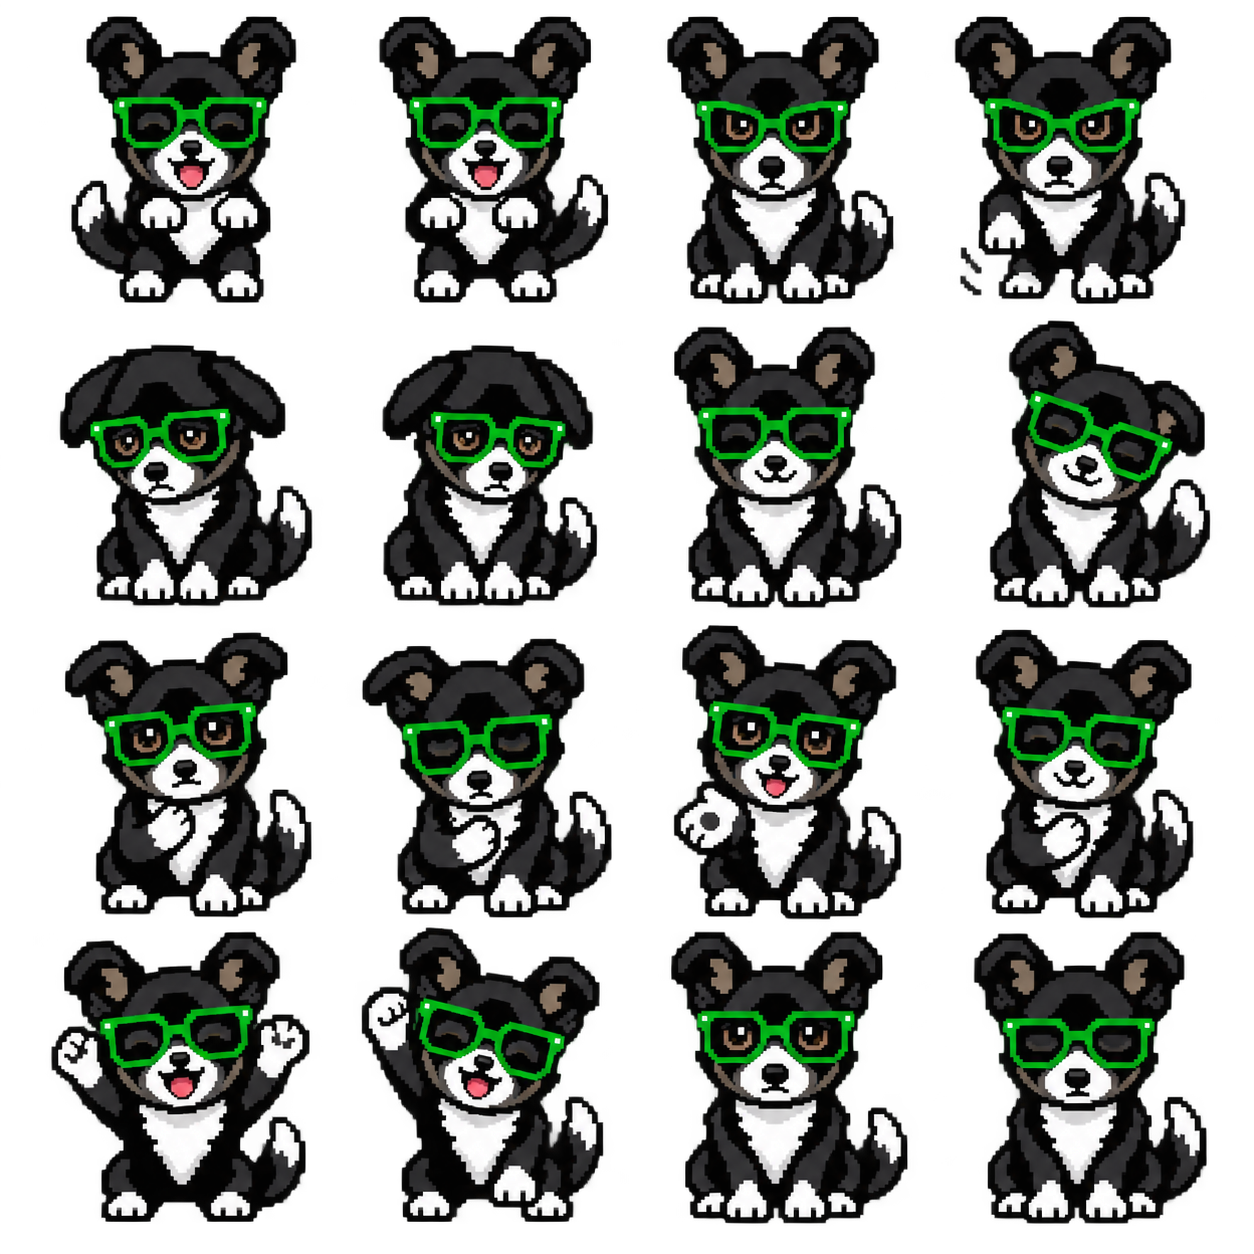
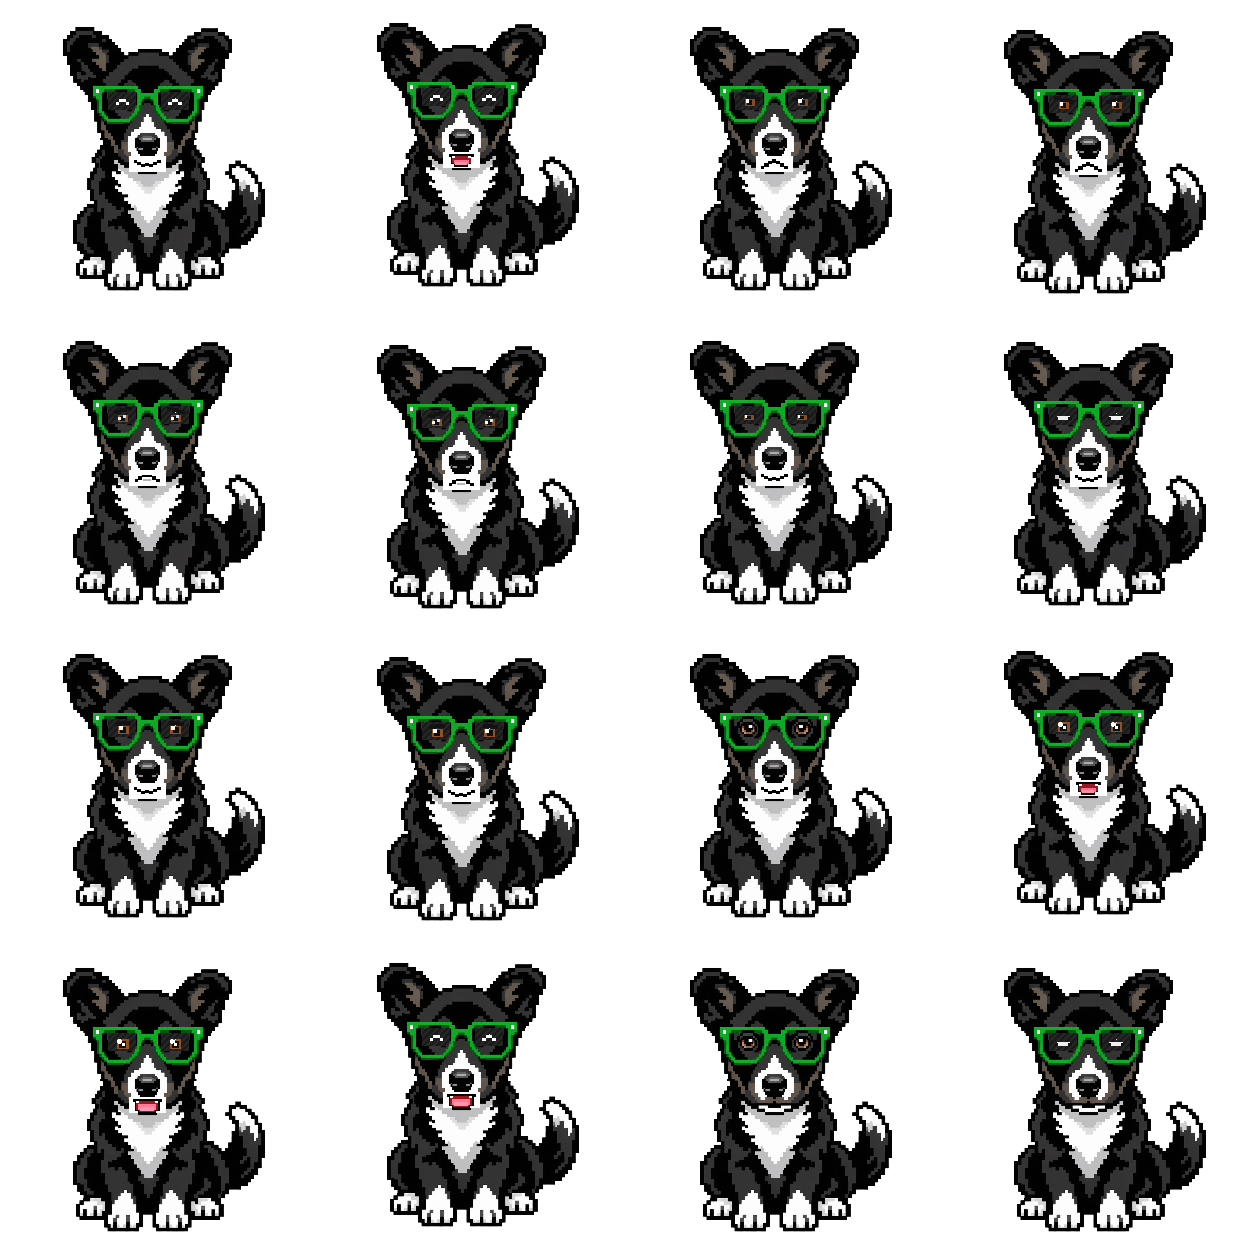
リアクション表情ドット絵を通常姿の画風に合わせて描き直しメガネの形状を修正

diff --git a/ROOM.md b/ROOM.md
@@ -44,9 +44,7 @@ Use case: background-extraction. Asset type: two-frame pixel animation sprite at
 | 3 | 共感 | 励まし |
 | 4 | 応援 | 通常・まばたき（予備） |
 
-OpenAIの組み込み `image_gen` ツールで生成。参照画像は `public/room-gonta.png`。最終プロンプト:
-
-Use case: stylized-concept. Asset type: production-ready emotion animation sprite atlas for Gonta, a cozy Japanese retro RPG chatbot. Input image 1 is the character identity reference ONLY. Create a SINGLE SQUARE sprite sheet with EXACTLY 4 columns and 4 rows of equal square cells. 16 full-body pixel dog poses total, one dog in each cell. Gonta: black dog, white muzzle and chest, white paw tips, big green square glasses, brown eyes, upright round ears, white tail tip, chibi friendly proportions matching reference. Genuinely TRANSPARENT alpha background throughout; no checkerboard, no colored backdrop, no floor, no cast shadows, no labels, no letters, no grid lines or borders. Sharp chunky 8-bit pixel art, limited palette, no gradients. Each dog same scale, baseline at 88% of cell, centered within its own cell, entire dog and paws inside cell with 10% clear padding. Paired adjacent cells are two animation frames; subtly different paw/ear/tail poses, locked camera and scale. ROW 1 COL 1 and 2: JOY delighted closed smiling eyes, open happy mouth, tail wag left/right, small lifted forepaws. ROW 1 COL 3 and 4: ANGER mild protective indignation, eyebrows furrowed but not scary, planted feet then one paw stomp, mouth resolute. ROW 2 COL 1 and 2: SADNESS ears lowered, small downturned mouth, head bowed slightly left/right, subdued. ROW 2 COL 3 and 4: RELAXED contented smile, sitting at ease, head slightly tilting, relaxed half-closed eyes. ROW 3 COL 1 and 2: EMPATHY kind concerned eyebrows, ears soft, paw on chest then slow gentle nod, listening posture, no tear icon. ROW 3 COL 3 and 4: ENCOURAGEMENT warm reassuring smile, one forepaw reaching toward viewer then nearer chest, open supportive gesture. ROW 4 COL 1 and 2: CHEERING enthusiastic both forepaws raised then pumping one paw upward, cheerful grin and tail energetic; body remains same center and baseline for CSS bounce. ROW 4 COL 3 and 4: NEUTRAL ordinary calmly sitting dog, eyes open then blink. No extra props, no hearts or stars, no text. This must be a usable regular 4x4 transparent sprite atlas, with precisely equal cells and consistent full-body character identity.
+2026-09-20に通常姿 `public/room-gonta.png` をベースに全面描き直しを実施。通常時と完全に同一の画風・クオリティ・プロポーション（尖った三角立ち耳、シャープなV字胸毛、足元）を厳密に継承し、ゴンタのアイデンティティである「四角い緑フレームのメガネ＋完全透明レンズ＋澄んだ茶色い瞳」を100%維持しています。AI生成によるメガネの吊り上がりやサングラス化（黒塗りレンズ）、耳や体型の崩れを完全に排除しました。また、`public/room-work-diary.png` の日記執筆姿についても同様にメガネの吊り上がり・サングラス化を修正し、クリアレンズの四角い眼鏡に変更しています。
 
 ## 画像生成の記録
 
